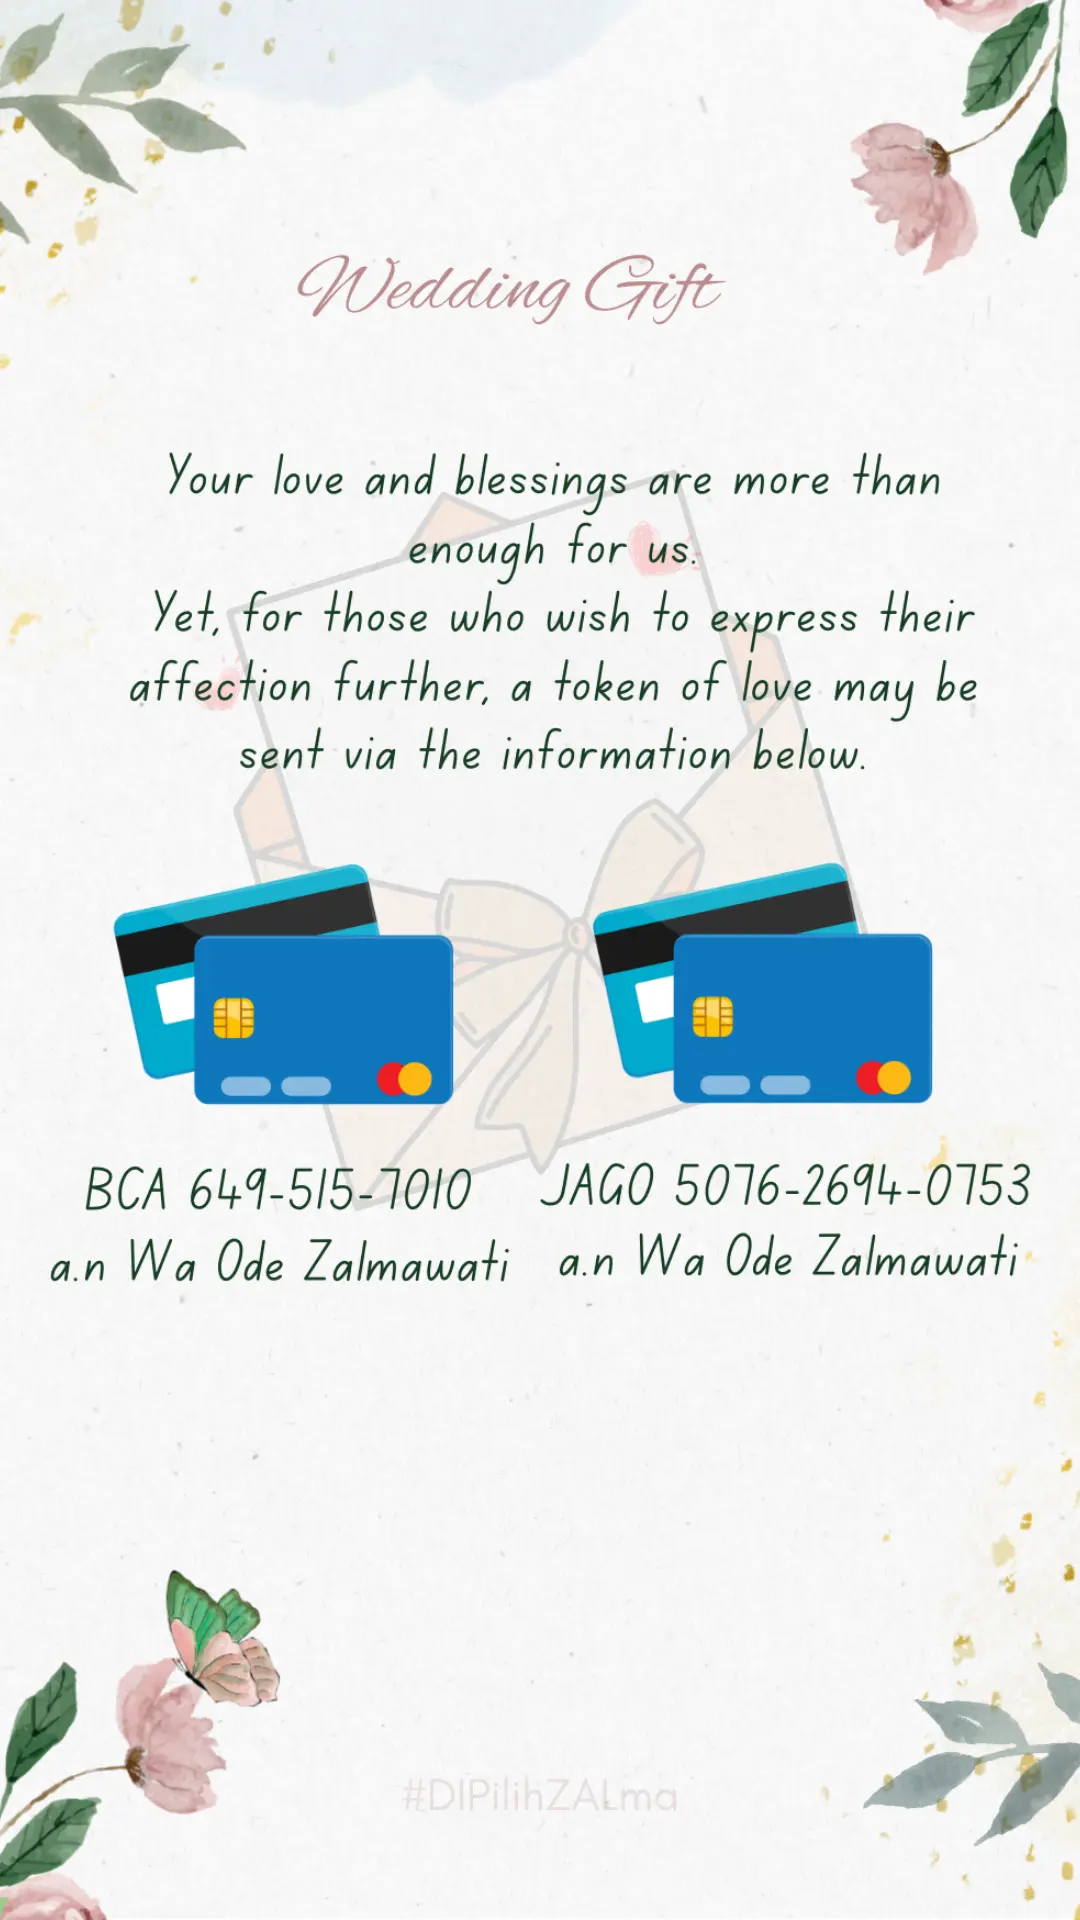
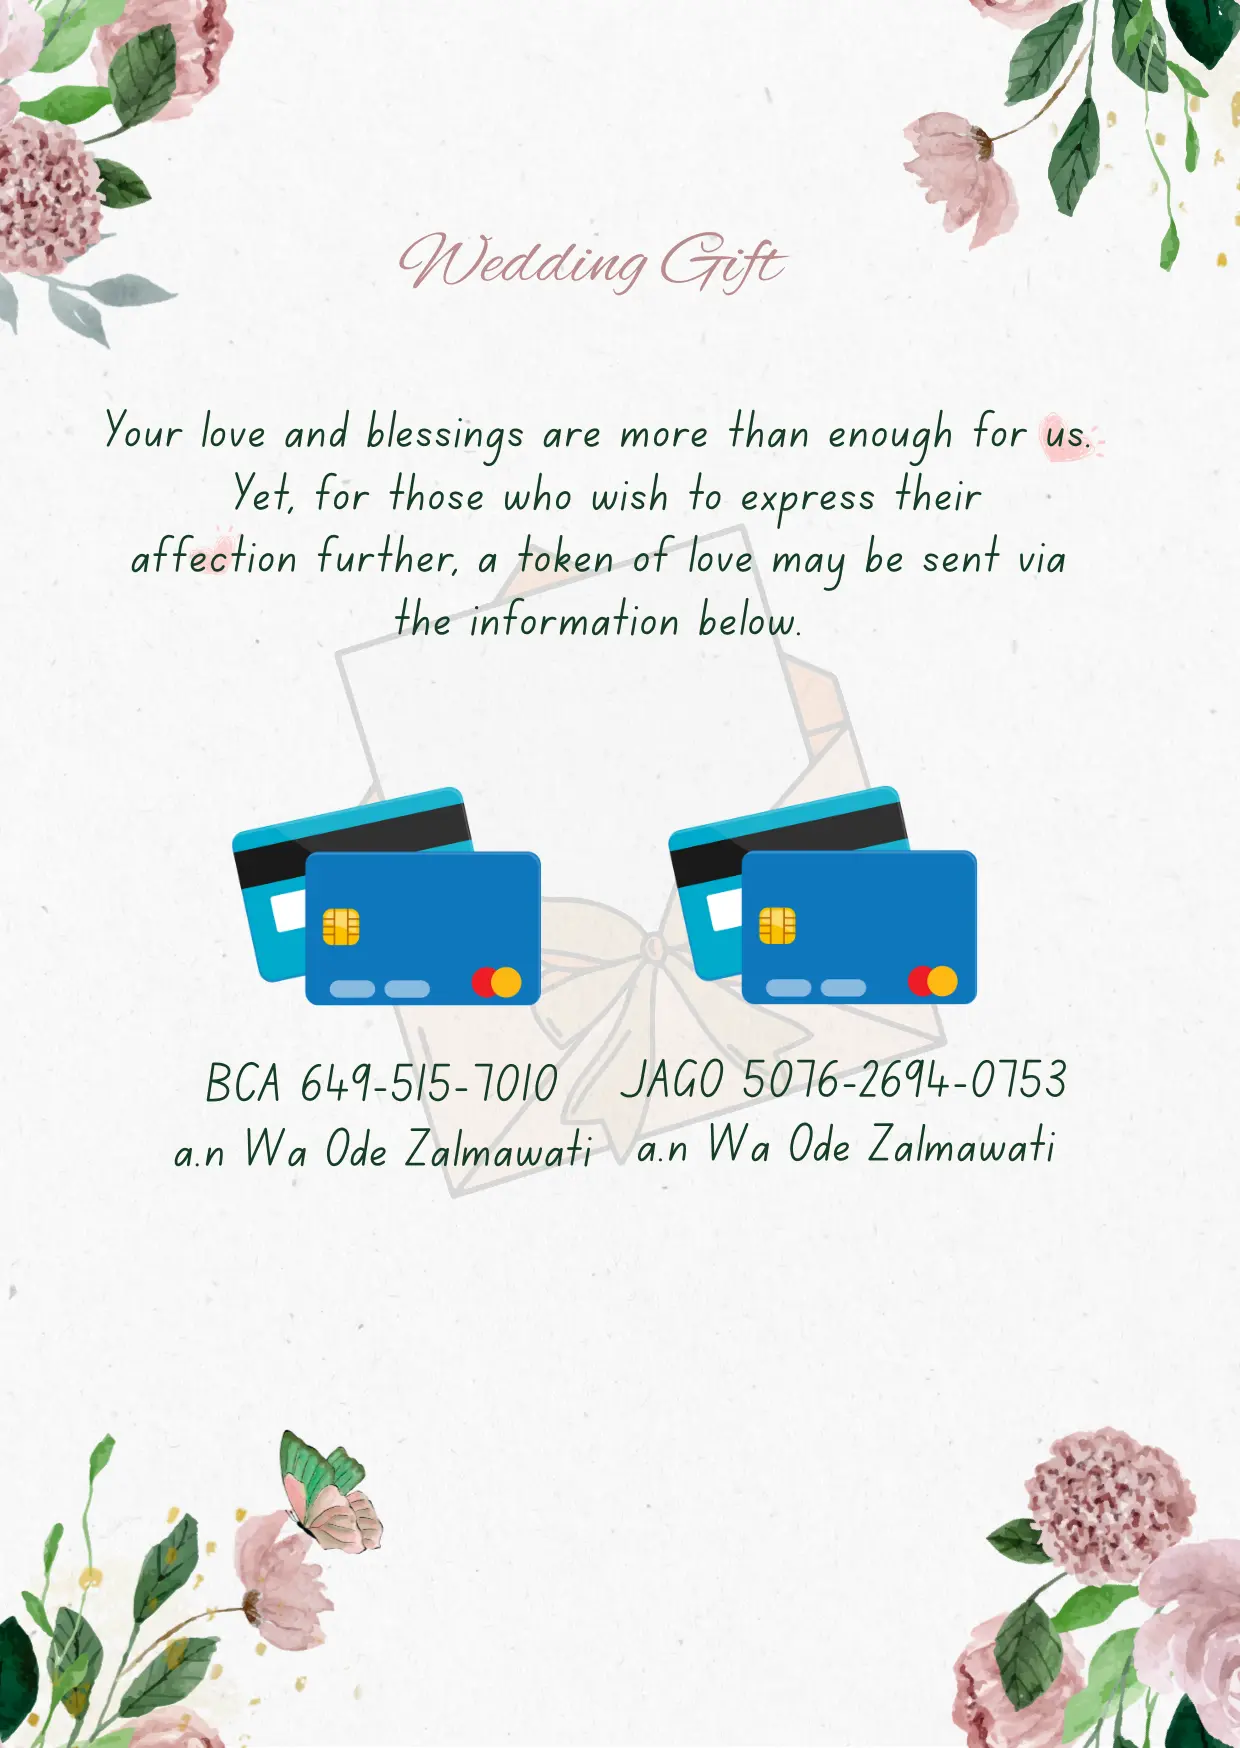
remove stretch

diff --git a/src/components/GalleryPage.jsx b/src/components/GalleryPage.jsx
@@ -50,7 +50,7 @@ const GalleryPage = () => {
 
     return (
         <div style={{
-            width: '100vw',
+            width: '100%',
             minHeight: '100vh',
             backgroundColor: '#FAF8F5',
             display: 'flex',
@@ -113,7 +113,6 @@ const GalleryPage = () => {
                     style={{
                         width: '100%',
                         maxWidth: '600px', // Restrain ultimate width on very wide screens for better reading experience
-                        minHeight: '100vh', // Ensure minimum height so next section doesn't bleed into view initially
                         display: 'flex',
                         justifyContent: 'center',
                         alignItems: 'center',
@@ -126,10 +125,7 @@ const GalleryPage = () => {
                         alt={`Invitation Page ${index + 1}`}
                         style={{
                             width: '100%',
-                            minHeight: '100vh', // Forces image to span entire height
-                            height: '100%',
-                            objectFit: 'cover', // Crops perfectly to viewport size so no second image is visible
-                            objectPosition: 'center', // Explicitly anchor cropping to the center
+                            height: 'auto',
                             display: 'block',
                         }}
                     />
